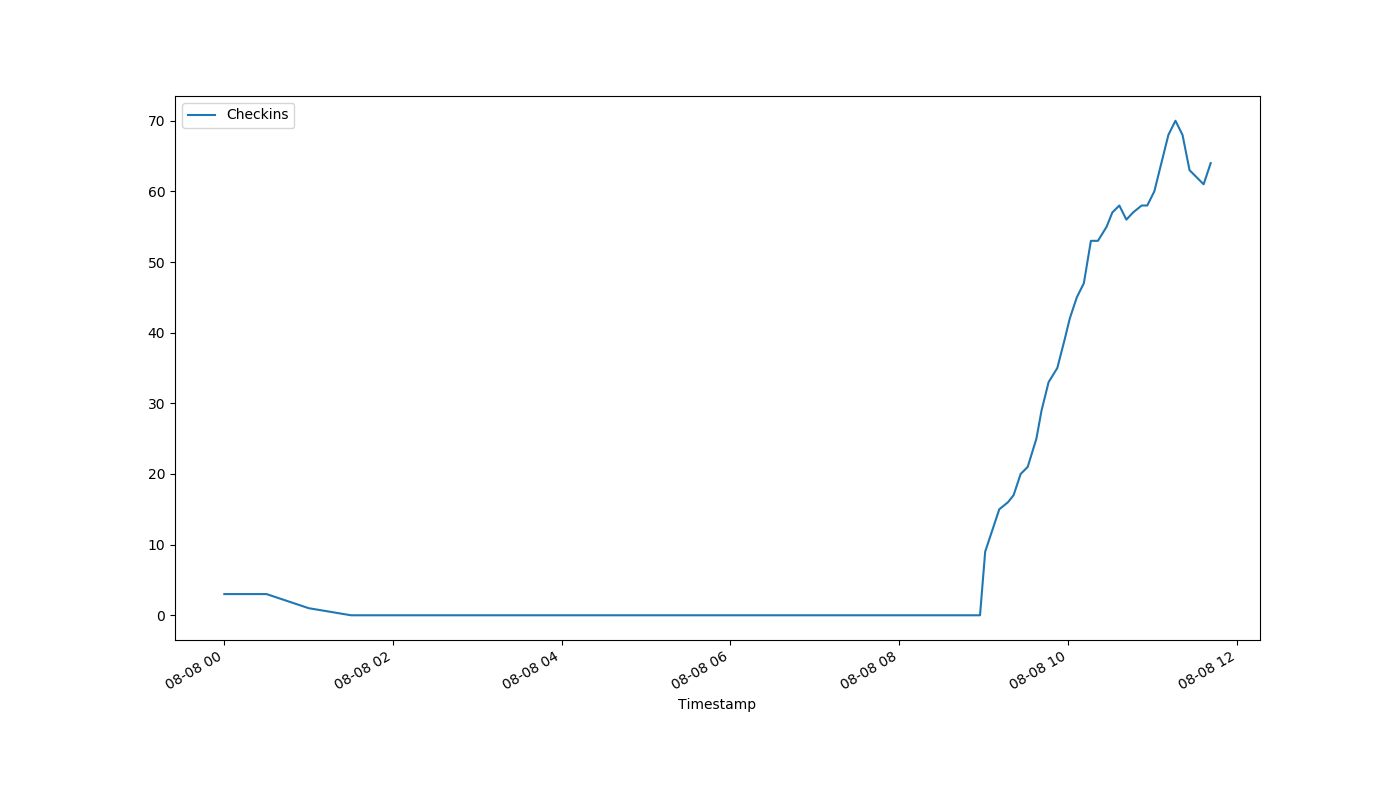
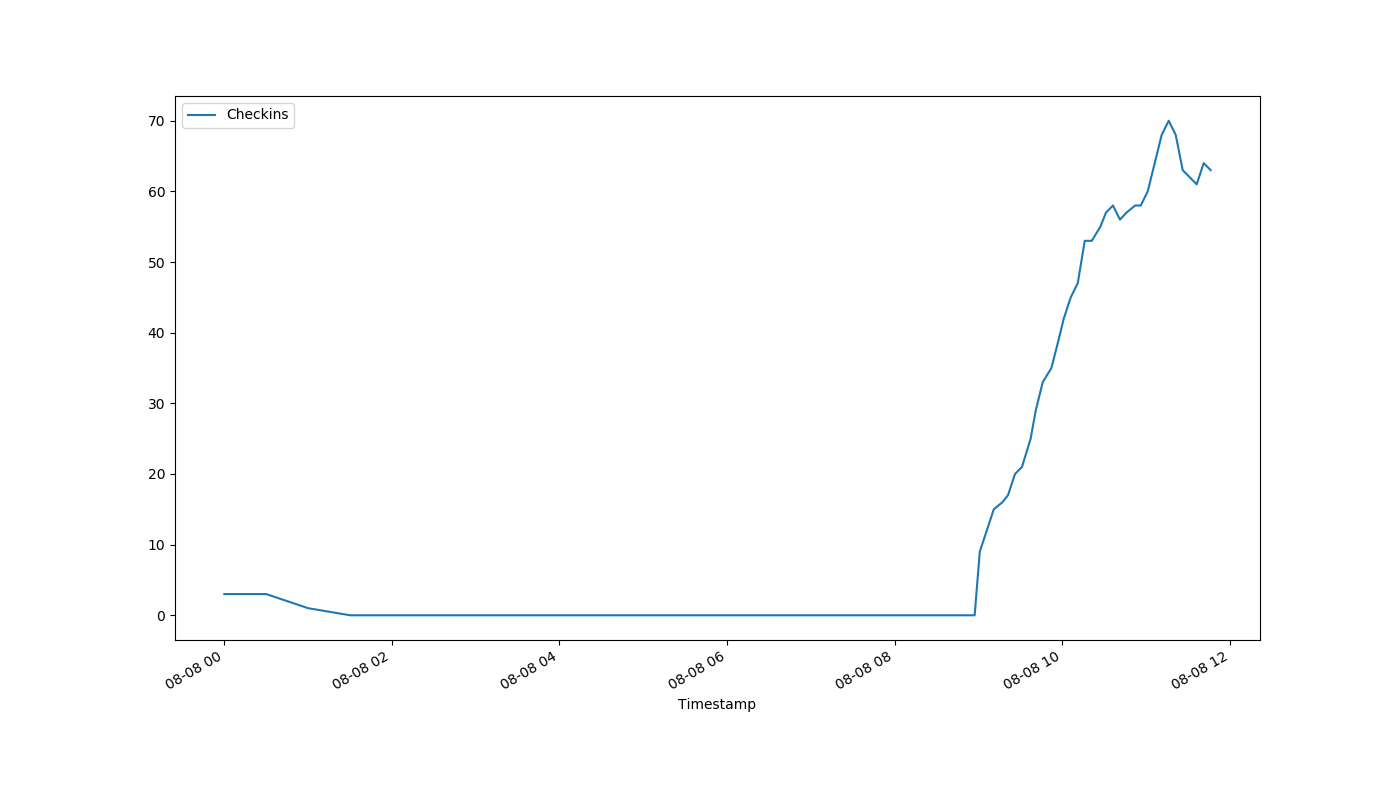
auto-Aug-08-11:47:35

diff --git a/index.html b/index.html
@@ -1,1 +1,1 @@
-<!DOCTYPE html><html><head><meta http-equiv="refresh" content="30"><link rel='stylesheet' href='holmcurrent.css'></head><body><p id='count'>64</p><div id='graph-wrap'><img id='graph' src='holmgraph-Aug-08.png'></div><p id='updated'>Last updated 11:42:10 / 11:41:14</p></body></html>
+<!DOCTYPE html><html><head><meta http-equiv="refresh" content="30"><link rel='stylesheet' href='holmcurrent.css'></head><body><p id='count'>63</p><div id='graph-wrap'><img id='graph' src='holmgraph-Aug-08.png'></div><p id='updated'>Last updated 11:47:10 / 11:46:14</p></body></html>
